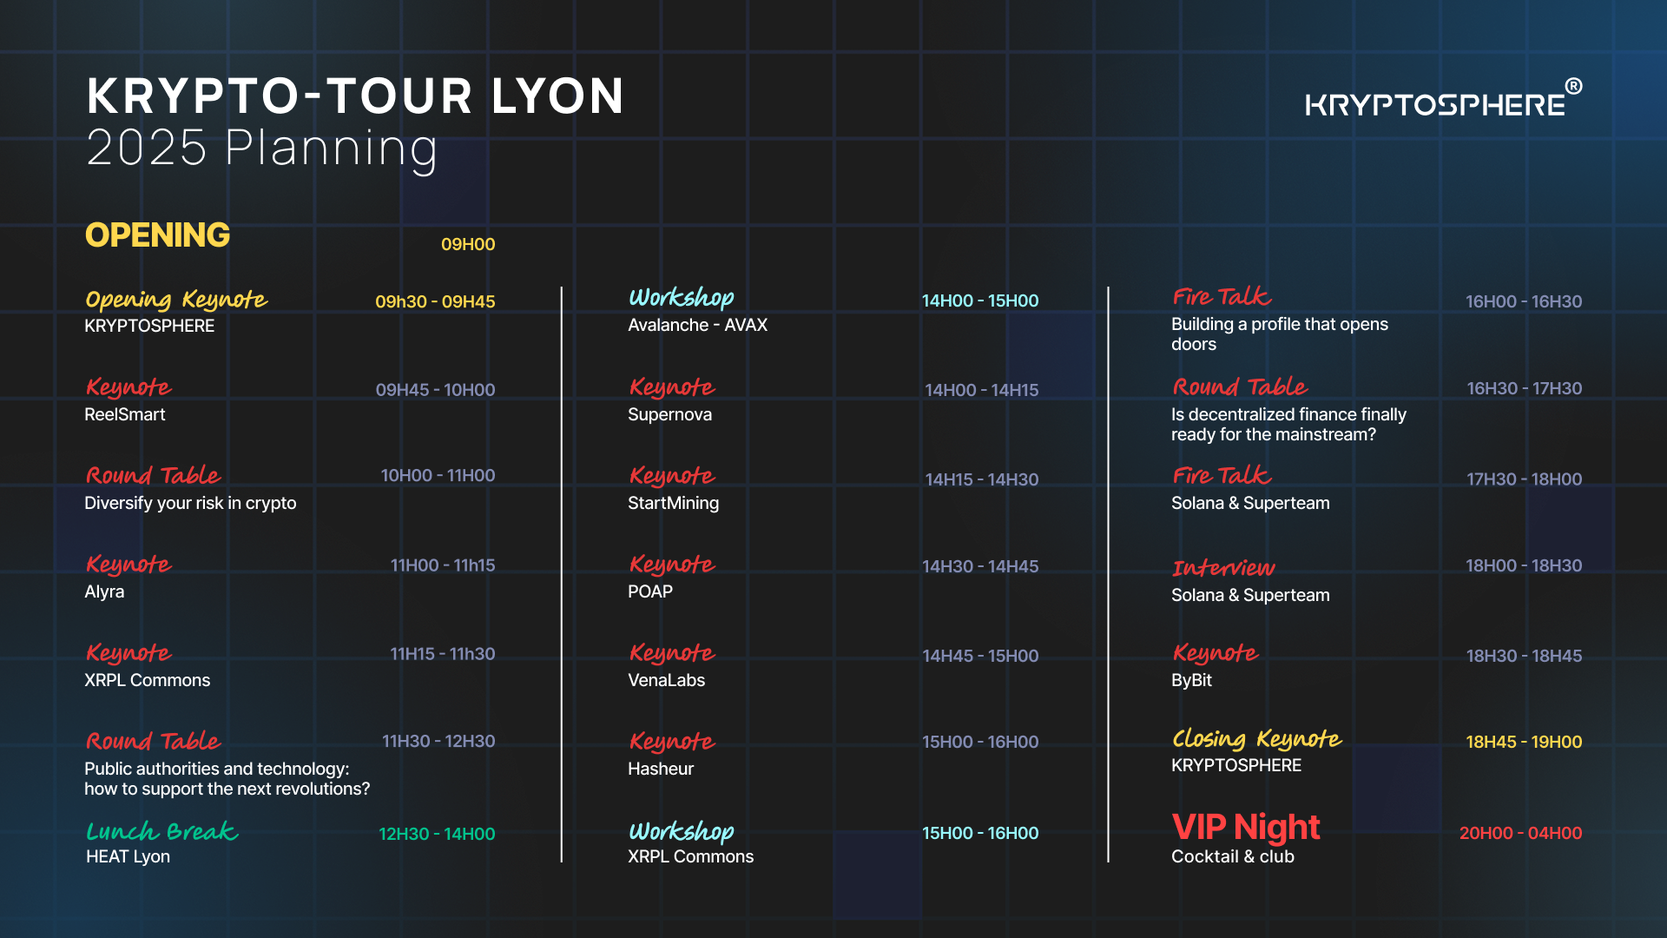
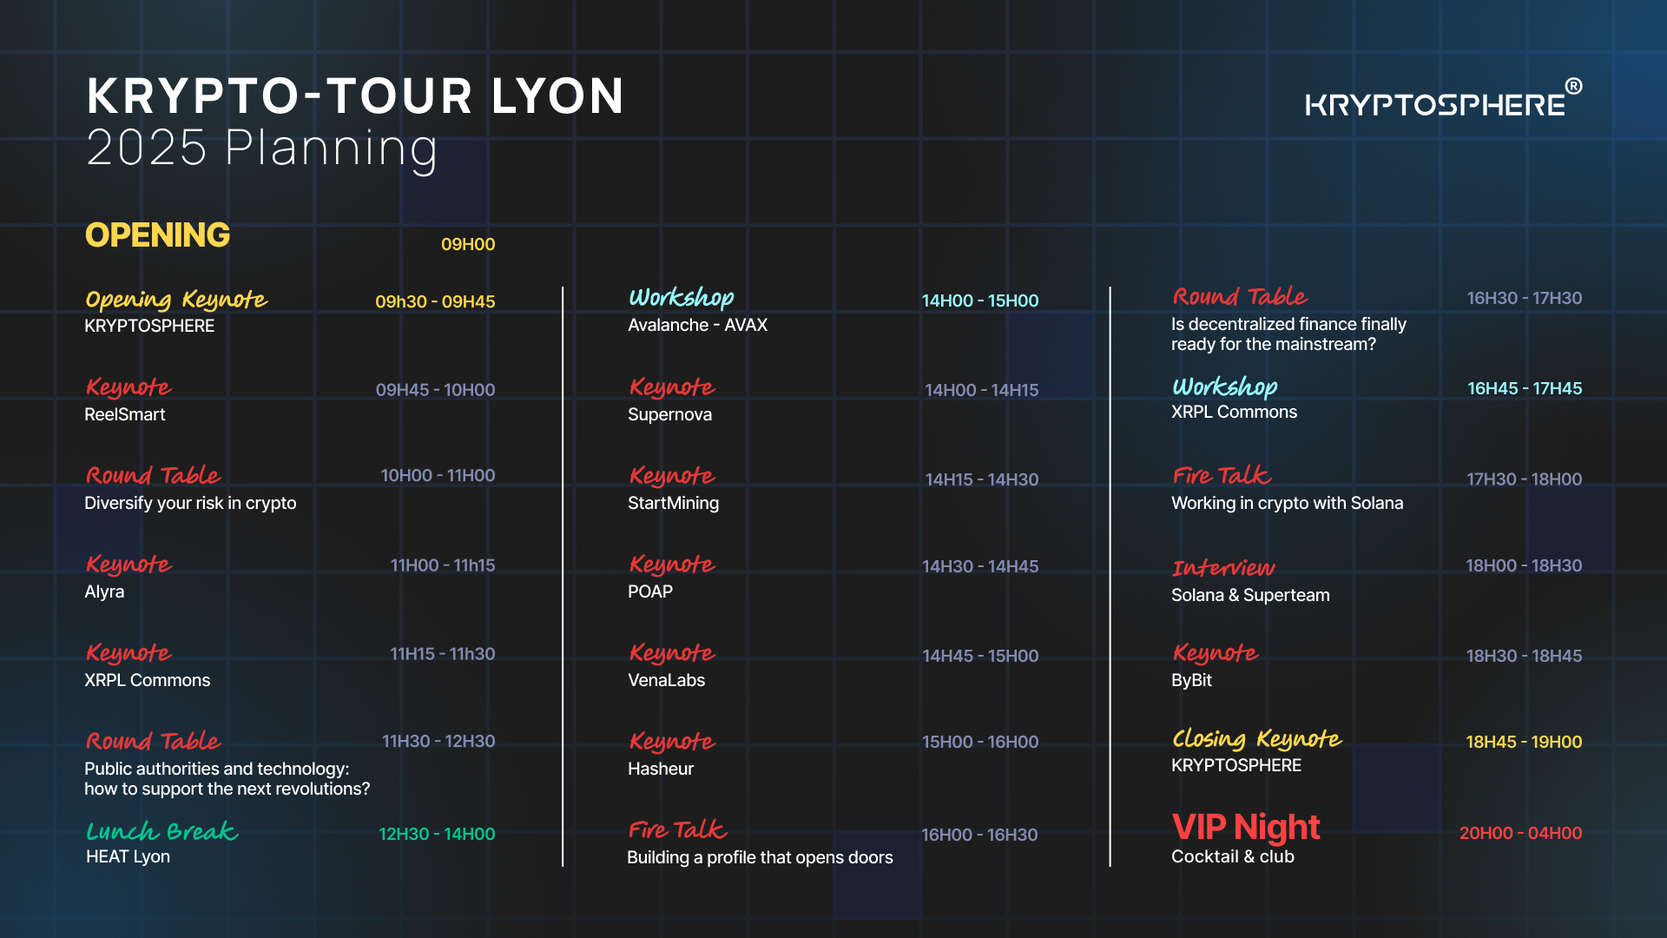
add speaker & add lazy loading on pages

diff --git a/src/pages/KryptoTour.tsx b/src/pages/KryptoTour.tsx
@@ -29,6 +29,27 @@ const KryptoTour = () => {
         };
     }, []);
 
+    // Progressive reveal for heavy grids (speakers, sponsors)
+    useEffect(() => {
+        const elements = Array.from(document.querySelectorAll('.reveal-on-scroll')) as HTMLElement[];
+        if (elements.length === 0) return;
+        const observer = new IntersectionObserver(
+            (entries) => {
+                entries.forEach((entry) => {
+                    if (entry.isIntersecting) {
+                        const el = entry.target as HTMLElement;
+                        el.classList.remove('opacity-0', 'translate-y-2');
+                        el.classList.add('opacity-100', 'translate-y-0');
+                        observer.unobserve(el);
+                    }
+                });
+            },
+            { rootMargin: '100px 0px', threshold: 0.05 }
+        );
+        elements.forEach((el) => observer.observe(el));
+        return () => observer.disconnect();
+    }, []);
+
     // Placeholder data
     const stats = [
         { label: t('kryptotour.stats.participants') || 'Participants', value: '1000+' },
@@ -186,7 +207,7 @@ const KryptoTour = () => {
             twitter: "",
         },
         {
-            name: "Ambroisie Helaine",
+            name: "Ambroise Helaine",
             role: "Country Manager - Bybit",
             img: "/krypto-tour/speakers/ambroisie.webp",
             linkedin: "https://www.linkedin.com/in/3426b345/",
@@ -211,6 +232,13 @@ const KryptoTour = () => {
             role: "Déléguée Générale ANACOFI | Présidente de Women4Cyber France",
             img: "/krypto-tour/speakers/valeria.webp",
             linkedin: "https://www.linkedin.com/in/vfaure-muntian/",
+            twitter: "",
+        },
+        {
+            name: "Tomas Mulder",
+            role: "Co-Founder & Director @POAP Studio",
+            img: "/krypto-tour/speakers/tomas.webp",
+            linkedin: "https://www.linkedin.com/in/tomas-mulder",
             twitter: "",
         }
     ];
@@ -243,7 +271,7 @@ const KryptoTour = () => {
             {/* Hero Section */}
             <section className="pt-32 pb-8 px-6">
                 <div className="max-w-7xl mx-auto text-center">
-                    <div className="inline-flex items-center gap-2 bg-blue-900/50 backdrop-blur-lg border border-blue-500/30 text-blue-300 px-4 py-2 rounded-full text-sm mb-6">
+                    <div className="inline-flex items-center gap-2 bg-blue-900/50 md:backdrop-blur-lg border border-blue-500/30 text-blue-300 px-4 py-2 rounded-full text-sm mb-6">
                         <Calendar className="w-4 h-4" />
                         {t('kryptotour.date') || '11 octobre 2025 · Lyon'}
                     </div>
@@ -289,7 +317,7 @@ const KryptoTour = () => {
                         {t('kryptotour.format.description') || 'Rejoignez la communauté blockchain française au KRYPTO-TOUR, l\'événement phare de KRYPTOSPHERE®, qui depuis 2022 a démocratisé les technologies Web3 au-delà de Paris. Après deux éditions à Marseille et une première lyonnaise ayant réuni plus de 500 participants, le KRYPTO-TOUR revient à Lyon le 11 octobre 2025 pour une 4ᵉ édition encore plus ambitieuse.'}
                     </p>
                     {/* Lyon Gallery Section */}
-                    <section className="py-8 px-6">
+                    <section className="py-8 px-6" style={{ contentVisibility: 'auto', containIntrinsicSize: '900px' }}>
                         <div className="max-w-5xl mx-auto">
                             <div className="grid grid-cols-1 md:grid-cols-3 gap-6">
                                 {[
@@ -297,12 +325,16 @@ const KryptoTour = () => {
                                     '/antennes/lyon/iaelyonGallery6.webp',
                                     'https://www.univ-lyon3.fr/medias/photo/kryptotour_1732016056202-jpg',
                                 ].map((img, i) => (
-                                    <div key={i} className="rounded-2xl overflow-hidden shadow-lg">
+                                    <div key={i} className="rounded-2xl overflow-hidden md:shadow-lg border border-slate-700/40 bg-slate-700/30" style={{ contain: 'paint' }}>
                                         <img
                                             src={img}
                                             alt={`Lyon gallery ${i + 1}`}
                                             className="w-full h-64 object-cover"
                                             loading="lazy"
+                                            decoding="async"
+                                            width="1200"
+                                            height="800"
+                                            sizes="(min-width: 768px) 33vw, 100vw"
                                         />
                                     </div>
                                 ))}
@@ -316,16 +348,20 @@ const KryptoTour = () => {
             </section>
 
             {/* Schedule Section */}
-            <section className="py-8 px-6">
+            <section className="py-8 px-6" style={{ contentVisibility: 'auto', containIntrinsicSize: '800px' }}>
                 <div className="max-w-7xl mx-auto">
                     <h2 className="text-3xl font-bold text-center mb-8 bg-gradient-to-r from-red-500 via-red-400 to-yellow-400 bg-clip-text text-transparent">{t('kryptotour.schedule.title') || 'Planning'}</h2>
-                    <div className="bg-slate-800/80 backdrop-blur-lg rounded-2xl p-6 mb-8 border border-slate-600/40">
+                    <div className="bg-slate-800/80 md:backdrop-blur-lg rounded-2xl p-6 mb-8 border border-slate-600/40">
                         <div className="flex justify-center">
                             <img 
                                 src="/krypto-tour/timetable.webp" 
                                 alt="KRYPTO-TOUR LYON 2025 Planning" 
                                 className="max-w-full h-auto rounded-lg cursor-pointer hover:scale-105 transition-transform duration-300 md:cursor-default md:hover:scale-100"
                                 loading="lazy"
+                                decoding="async"
+                                width="1920"
+                                height="1080"
+                                sizes="100vw"
                                 onClick={(e) => {
                                     if (window.innerWidth < 768) {
                                         e.preventDefault();
@@ -360,17 +396,20 @@ const KryptoTour = () => {
             </section>
 
             {/* Speakers/Guests Grid */}
-            <section className="py-8 px-6">
+            <section className="py-8 px-6" style={{ contentVisibility: 'auto', containIntrinsicSize: '1400px' }}>
                 <div className="max-w-7xl mx-auto">
                     <h2 className="text-3xl font-bold text-center mb-8 bg-gradient-to-r from-red-500 via-red-400 to-yellow-400 bg-clip-text text-transparent">{t('kryptotour.speakers.title') || 'Speakers'}</h2>
                     <div className="grid grid-cols-2 md:grid-cols-4 gap-6 mb-8">
                         {speakers.map((sp, i) => (
-                            <div key={i} className="bg-slate-800/50 rounded-xl border border-slate-700/50 p-4 flex flex-col items-center h-full">
+                            <div key={i} className="bg-slate-800/50 rounded-xl border border-slate-700/50 p-4 flex flex-col items-center h-full reveal-on-scroll opacity-0 translate-y-2 transition-all duration-500 will-change-transform" style={{ contain: 'paint' }}>
                                 <div className="w-24 h-24 rounded-full overflow-hidden bg-slate-700 mb-3 flex items-center justify-center">
                                     <img
                                         src={sp.img}
                                         alt={sp.name}
                                         loading="lazy"
+                                        decoding="async"
+                                        width="96"
+                                        height="96"
                                         className="w-full h-full object-cover"
                                     />
                                 </div>
@@ -407,7 +446,7 @@ const KryptoTour = () => {
             </section>
 
             {/* Sponsors Section */}
-            <section className="py-8 px-6">
+            <section className="py-8 px-6" style={{ contentVisibility: 'auto', containIntrinsicSize: '1600px' }}>
                 <div className="max-w-7xl mx-auto">
                     <h2 className="text-3xl font-bold text-center mb-8 bg-gradient-to-r from-red-500 via-red-400 to-yellow-400 bg-clip-text text-transparent">{t('kryptotour.sponsors.title') || 'Sponsors'}</h2>
 
@@ -425,7 +464,7 @@ const KryptoTour = () => {
                                 className="bg-gradient-to-br from-cyan-900/20 to-blue-600/10 rounded-2xl border-2 border-cyan-500/30 p-12 flex items-center justify-center hover:border-cyan-400/50 transition-all duration-300 group"
                                 title="France Cryptos"
                             >
-                                <img src="/krypto-tour/sponsors/fc.webp" alt="France Cryptos Logo" loading="lazy" className="max-h-24 object-contain group-hover:scale-105 transition-transform duration-300" />
+                                <img src="/krypto-tour/sponsors/fc.webp" alt="France Cryptos Logo" loading="lazy" decoding="async" width="600" height="200" sizes="(min-width: 768px) 600px, 90vw" className="max-h-24 object-contain md:group-hover:scale-105 md:transform-gpu transition-transform duration-300" />
                             </a>
                         </div>
                     </div>
@@ -449,10 +488,11 @@ const KryptoTour = () => {
                                     href={sponsor.url}
                                     target="_blank"
                                     rel="noopener noreferrer"
-                                    className="bg-gradient-to-br from-yellow-900/20 to-yellow-600/10 rounded-2xl border-2 border-yellow-500/30 p-6 md:p-8 flex items-center justify-center hover:border-yellow-400/50 transition-all duration-300 h-32 md:h-40 lg:h-48 group"
+                                    className="bg-gradient-to-br from-yellow-900/20 to-yellow-600/10 rounded-2xl border-2 border-yellow-500/30 p-6 md:p-8 flex items-center justify-center hover:border-yellow-400/50 transition-all duration-300 h-32 md:h-40 lg:h-48 group reveal-on-scroll opacity-0 translate-y-2 will-change-transform"
+                                    style={{ contain: 'paint' }}
                                     title={sponsor.name}
                                 >
-                                    <img src={sponsor.img} alt={`${sponsor.name} Logo`} loading="lazy" className="w-full h-full max-h-20 md:max-h-24 lg:max-h-28 object-contain group-hover:scale-105 transition-transform duration-300" />
+                                    <img src={sponsor.img} alt={`${sponsor.name} Logo`} loading="lazy" decoding="async" width="512" height="256" sizes="(min-width: 768px) 33vw, 100vw" className="w-full h-full max-h-20 md:max-h-24 lg:max-h-28 object-contain md:group-hover:scale-105 md:transform-gpu transition-transform duration-300" />
                                 </a>
                             ))}
                         </div>
@@ -484,10 +524,11 @@ const KryptoTour = () => {
                                     href={sponsor.url}
                                     target="_blank"
                                     rel="noopener noreferrer"
-                                    className="bg-gradient-to-br from-gray-800/20 to-gray-600/10 rounded-xl border-2 border-gray-500/30 p-6 flex items-center justify-center hover:border-gray-400/50 transition-all duration-300 h-32 md:h-36 group"
+                                    className="bg-gradient-to-br from-gray-800/20 to-gray-600/10 rounded-xl border-2 border-gray-500/30 p-6 flex items-center justify-center hover:border-gray-400/50 transition-all duration-300 h-32 md:h-36 group reveal-on-scroll opacity-0 translate-y-2 will-change-transform"
+                                    style={{ contain: 'paint' }}
                                     title={sponsor.name}
                                 >
-                                    <img src={sponsor.img} alt={`${sponsor.name} Logo`} loading="lazy" className="w-full h-full max-h-20 md:max-h-24 object-contain group-hover:scale-105 transition-transform duration-300" />
+                                    <img src={sponsor.img} alt={`${sponsor.name} Logo`} loading="lazy" decoding="async" width="512" height="256" sizes="(min-width: 768px) 33vw, 100vw" className="w-full h-full max-h-20 md:max-h-24 object-contain md:group-hover:scale-105 md:transform-gpu transition-transform duration-300" />
                                 </a>
                             ))}
                         </div>
@@ -517,10 +558,11 @@ const KryptoTour = () => {
                                     href={sponsor.url}
                                     target="_blank"
                                     rel="noopener noreferrer"
-                                    className="bg-gradient-to-br from-orange-900/20 to-orange-600/10 rounded-xl border-2 border-orange-500/30 p-4 flex items-center justify-center hover:border-orange-400/50 transition-all duration-300 h-28 md:h-32 group"
+                                    className="bg-gradient-to-br from-orange-900/20 to-orange-600/10 rounded-xl border-2 border-orange-500/30 p-4 flex items-center justify-center hover:border-orange-400/50 transition-all duration-300 h-28 md:h-32 group reveal-on-scroll opacity-0 translate-y-2 will-change-transform"
+                                    style={{ contain: 'paint' }}
                                     title={sponsor.name}
                                 >
-                                    <img src={sponsor.img} alt={`${sponsor.name} Logo`} loading="lazy" className="w-full h-full max-h-16 md:max-h-20 object-contain group-hover:scale-105 transition-transform duration-300" />
+                                    <img src={sponsor.img} alt={`${sponsor.name} Logo`} loading="lazy" decoding="async" width="400" height="200" sizes="(min-width: 768px) 33vw, 50vw" className="w-full h-full max-h-16 md:max-h-20 object-contain md:group-hover:scale-105 md:transform-gpu transition-transform duration-300" />
                                 </a>
                             ))}
                         </div>
@@ -549,10 +591,10 @@ const KryptoTour = () => {
             </section>
 
             {/* Community Partners */}
-            <section className="py-8 px-6">
+            <section className="py-8 px-6" style={{ contentVisibility: 'auto', containIntrinsicSize: '900px' }}>
                 <div className="max-w-7xl mx-auto">
                     <h2 className="text-2xl font-bold text-center mb-6 text-red-400">{t('kryptotour.communityPartners.title') || 'Partenaires communautaires'}</h2>
-                    <div className="bg-slate-700/80 backdrop-blur-lg rounded-2xl p-4 mb-8 border border-slate-600/40">
+                    <div className="bg-slate-700/80 md:backdrop-blur-lg rounded-2xl p-4 mb-8 border border-slate-600/40">
                         <div className="grid grid-cols-2 md:grid-cols-4 gap-4">
                             {[
                                 { img: '/krypto-tour/community-partner/b@b.webp', url: 'https://blockchain.studentorg.berkeley.edu/', name: 'Blockchain at Berkeley' },
@@ -574,6 +616,10 @@ const KryptoTour = () => {
                                         src={partner.img}
                                         alt={`${partner.name} Logo`}
                                         loading="lazy"
+                                        decoding="async"
+                                        width="200"
+                                        height="100"
+                                        sizes="(min-width: 768px) 25vw, 45vw"
                                         className="max-h-20 w-auto object-contain mx-auto"
                                     />
                                 </a>
@@ -584,10 +630,10 @@ const KryptoTour = () => {
             </section>
 
             {/* Media Partners */}
-            <section className="py-8 px-6">
+            <section className="py-8 px-6" style={{ contentVisibility: 'auto', containIntrinsicSize: '900px' }}>
                 <div className="max-w-7xl mx-auto">
                     <h2 className="text-2xl font-bold text-center mb-6 text-red-400">{t('kryptotour.mediaPartners.title') || 'Partenaire média'}</h2>
-                    <div className="bg-slate-700/80 backdrop-blur-lg rounded-2xl p-4 mb-8 border border-slate-600/40">
+                    <div className="bg-slate-700/80 md:backdrop-blur-lg rounded-2xl p-4 mb-8 border border-slate-600/40">
                         <div className="grid grid-cols-2 md:grid-cols-5 gap-2">
                             {mediaPartners.map((mp, i) => (
                                 <a
@@ -602,6 +648,10 @@ const KryptoTour = () => {
                                         src={mp.img}
                                         alt={mp.name}
                                         loading="lazy"
+                                        decoding="async"
+                                        width="240"
+                                        height="120"
+                                        sizes="(min-width: 768px) 20vw, 45vw"
                                         className="max-h-24 w-auto object-contain mx-auto"
                                     />
                                 </a>

diff --git a/src/pages/AntenneDetail.tsx b/src/pages/AntenneDetail.tsx
@@ -494,6 +494,9 @@ const AntenneDetail = () => {
                   src={antenne.schoolLogo}
                   alt={antenne.school}
                   loading="lazy"
+                  decoding="async"
+                  width={112}
+                  height={112}
                   className="max-w-28 max-h-28 bg-white rounded-lg p-2 object-contain"
                 />
                 <div>
@@ -516,7 +519,7 @@ const AntenneDetail = () => {
         </div>
       </section>
       {/* Bureau Section */}
-      <section className="py-20">
+      <section className="py-20" style={{ contentVisibility: 'auto', containIntrinsicSize: '1200px' }}>
         <div className="max-w-7xl mx-auto px-6">
           <h2 className="text-4xl font-bold text-white text-center mb-16">
             {t('branches.bureauYear').replace('{city}', antenne.name)}
@@ -526,7 +529,8 @@ const AntenneDetail = () => {
             {antenne.bureau.map((member, index) => (
               <div
                 key={index}
-                className="bg-slate-800/50 backdrop-blur-lg rounded-2xl border border-slate-700/50 hover:border-blue-500/50 transition-all duration-300 group hover:shadow-2xl hover:shadow-blue-500/10 overflow-hidden"
+                className="bg-slate-800/50 md:backdrop-blur-lg rounded-2xl border border-slate-700/50 hover:border-blue-500/50 transition-all duration-300 group hover:shadow-2xl hover:shadow-blue-500/10 overflow-hidden"
+                style={{ contain: 'paint' }}
               >
                 <div className="p-8 text-center">
                   <div className="w-32 h-32 rounded-xl overflow-hidden mx-auto mb-6 border-2 border-blue-500/30 group-hover:border-blue-400 transition-all duration-300">
@@ -534,7 +538,10 @@ const AntenneDetail = () => {
                       src={member.photo}
                       alt={member.name}
                       loading="lazy"
-                      className="w-full h-full object-cover transform group-hover:scale-105 transition-transform duration-300"
+                      decoding="async"
+                      width={128}
+                      height={128}
+                      className="w-full h-full object-cover md:transform-gpu md:group-hover:scale-105 transition-transform duration-300"
                     />
                   </div>
                   <h3 className="text-xl font-bold mb-2 text-white group-hover:text-blue-300 transition-colors">
@@ -551,7 +558,7 @@ const AntenneDetail = () => {
       </section>
 
       {/* Contact & Map Section */}
-      <section className="py-20 bg-slate-800/30">
+      <section className="py-20 bg-slate-800/30" style={{ contentVisibility: 'auto', containIntrinsicSize: '900px' }}>
         <div className="max-w-7xl mx-auto px-6">
           <div className="grid grid-cols-1 lg:grid-cols-2 gap-12">
             {/* Contact Info */}
@@ -601,17 +608,20 @@ const AntenneDetail = () => {
 
       {/* Gallery Section */}
       {antenne.gallery && antenne.gallery.length > 0 && (
-      <section className="py-20">
+      <section className="py-20" style={{ contentVisibility: 'auto', containIntrinsicSize: '900px' }}>
         <div className="max-w-7xl mx-auto px-6">
           <h2 className="text-3xl font-bold text-white text-center mb-16">{t('branches.gallery')}</h2>
           <div className="grid grid-cols-1 md:grid-cols-2 lg:grid-cols-3 gap-6">
               {antenne.gallery.map((image, index) => (
-              <div key={index} className="aspect-video rounded-xl overflow-hidden bg-slate-800">
+              <div key={index} className="aspect-video rounded-xl overflow-hidden bg-slate-800" style={{ contain: 'paint' }}>
                 <img
                   src={image}
                   alt={`${t('branches.gallery')} ${index + 1}`}
                   loading="lazy"
-                  className="w-full h-full object-cover hover:scale-105 transition-transform duration-300"
+                  decoding="async"
+                  width={1280}
+                  height={720}
+                  className="w-full h-full object-cover md:transform-gpu md:hover:scale-105 transition-transform duration-300"
                 />
               </div>
             ))}

diff --git a/src/components/SponsorsSection.tsx b/src/components/SponsorsSection.tsx
@@ -69,7 +69,7 @@ const SponsorsSection = () => {
     items: { name: string; logo: string }[],
     autoScrollSpeed: number
   ) => (
-    <section className="py-12">
+    <section className="py-12" style={{ contentVisibility: 'auto', containIntrinsicSize: '800px' }}>
       <div className="max-w-7xl mx-auto px-6">
         <h3 className="text-white text-2xl md:text-3xl font-bold text-center mb-8">{title}</h3>
         <div className="relative">
@@ -82,6 +82,9 @@ const SponsorsSection = () => {
                       src={item.logo}
                       alt={item.name}
                       loading="lazy"
+                      decoding="async"
+                      width={256}
+                      height={64}
                       className="h-16 w-auto max-w-full object-contain"
                     />
                   </div>
@@ -96,7 +99,7 @@ const SponsorsSection = () => {
 
   // Media carousel (autoplay)
   const renderMediaCarousel = (title: string, items: { name: string; logo: string }[], autoScrollSpeed: number) => (
-    <section className="py-16 border-t border-slate-800">
+    <section className="py-16 border-t border-slate-800" style={{ contentVisibility: 'auto', containIntrinsicSize: '700px' }}>
       <div className="max-w-7xl mx-auto px-6">
         <h3 className="text-white text-3xl font-bold text-center mb-12">{title}</h3>
         <div className="relative">
@@ -109,6 +112,9 @@ const SponsorsSection = () => {
                       src={outlet.logo}
                       alt={outlet.name}
                       loading="lazy"
+                      decoding="async"
+                      width={256}
+                      height={64}
                       className="h-16 w-auto max-w-full object-contain"
                     />
                   </div>

diff --git a/src/pages/Antennes.tsx b/src/pages/Antennes.tsx
@@ -122,7 +122,7 @@ const Antennes = () => {
       coordinates: { lat: 49.238939, lng: 4.002990 },
       school: 'NEOMA',
       description: t('antennes.neoma.littleDescription'),
-      image: 'https://www.fondation-neoma.fr/sites/fondation/files/styles/w2000/public/2023-11/NEOMA_Front.png?h=fb205de0&itok=sDaXH5eq',
+      image: 'https://neoma-bs.fr/sites/default/files/styles/press_release_content_md/public/img/HenningLarsen_ReimsSchool_LobbyView_Final_Sora-1-scaled.jpg?itok=-STT0oRW',
     },
     {
       id: 'aes',
